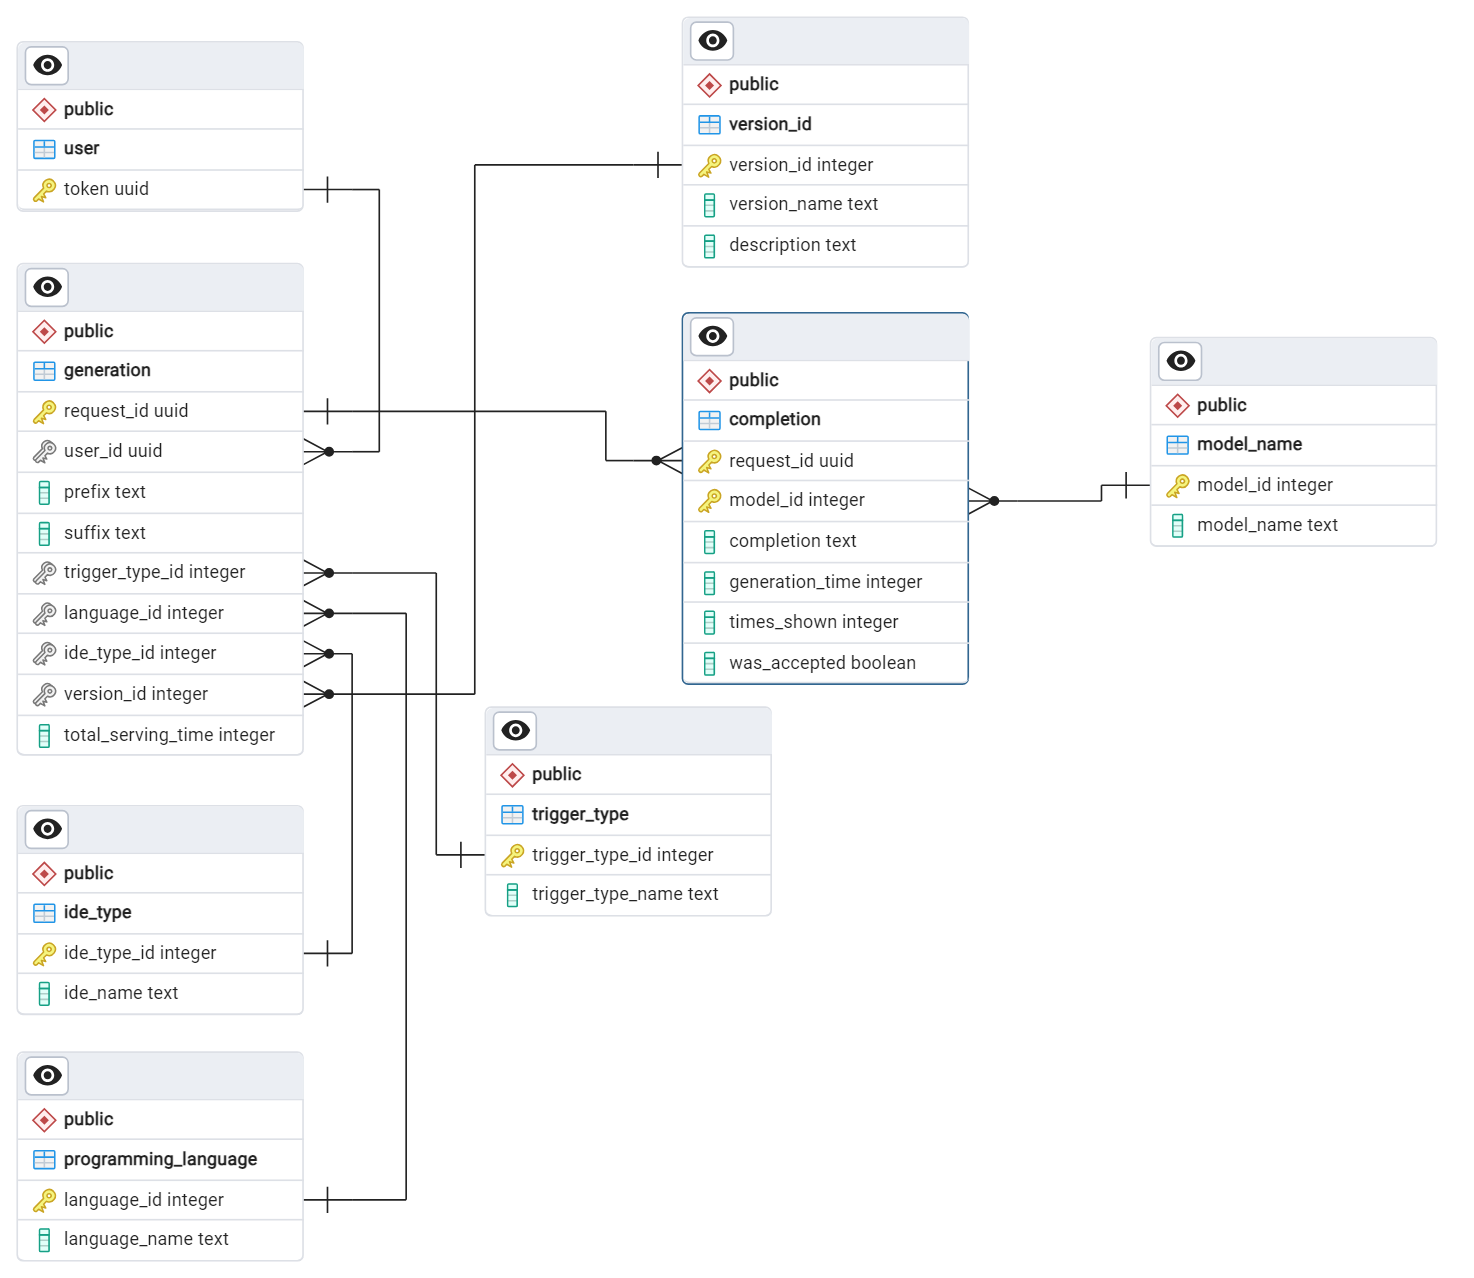
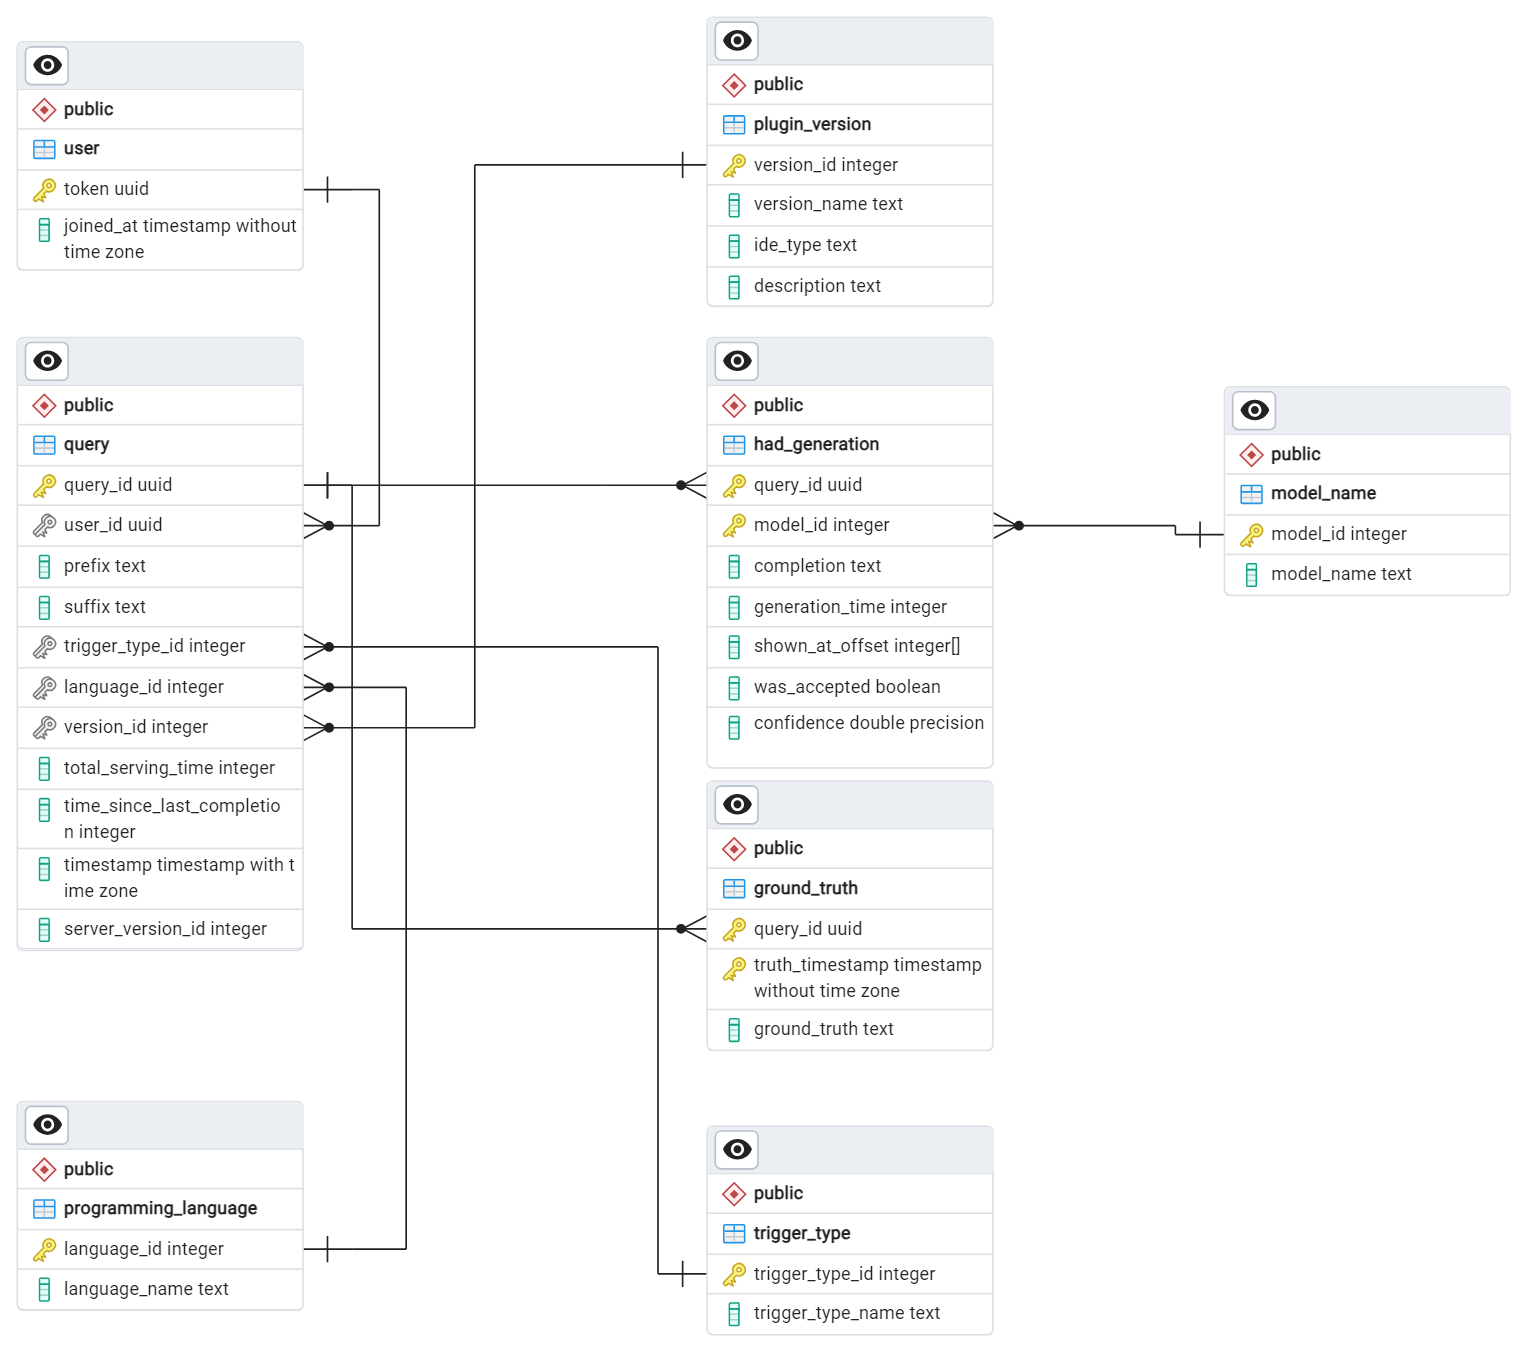
added agreed upon changes to the database, modified initialization script to include indexes and comments indicating what each part does.

diff --git a/server/database/design.md b/server/database/design.md
@@ -1,65 +1,70 @@
 ```mermaid
-classDiagram
-    direction LR
-    class User {
-      <<public>>
-      +UUID token_uuid
-    }
-    class Query {
-      <<public>>
-      +UUID query_id
-      +UUID user_id
-      +TEXT prefix_text
-      +TEXT suffix_text
-      +INTEGER trigger_type_id
-      +INTEGER language_id
-      +INTEGER ide_type_id
-      +INTEGER version_id
-      +INTEGER total_serving_time
-    }
-    class Version {
-      <<public>>
-      +INTEGER version_id
-      +TEXT version_name
-      +TEXT description
-    }
-    class Generation {
-      <<public>>
-      +UUID request_id
-      +INTEGER model_id
-      +TEXT Generation_text
-      +INTEGER generation_time
-      +INTEGER times_shown
-      +BOOLEAN was_accepted
-    }
-    class Model {
-      <<public>>
-      +INTEGER model_id
-      +TEXT model_name
-    }
-    class Trigger_Type {
-      <<public>>
-      +INTEGER trigger_type_id
-      +TEXT trigger_type_name
-    }
-    class IDE_Type {
-      <<public>>
-      +INTEGER ide_type_id
-      +TEXT ide_name
-    }
-    class Programming_Language {
-      <<public>>
-      +INTEGER language_id
-      +TEXT language_name
+erDiagram
+    USER {
+        UUID token PK
+        TIMESTAMP joined_at
     }
 
-    User --|> Query : "has"
-    Query --|> Version : "uses"
-    Query --|> Generation : "triggers"
-    Generation --|> Model : "utilizing"
-    Query --|> Trigger_Type : "was triggered by"
-    Query --|> IDE_Type : "was generated by"
-    Query --|> Programming_Language : "programs in"
+    QUERY {
+        UUID query_id PK
+        UUID user_id FK
+        TEXT prefix
+        TEXT suffix
+        INTEGER trigger_type_id FK
+        INTEGER language_id FK
+        INTEGER version_id FK
+        INTEGER total_serving_time
+        INTEGER time_since_last_completion
+        TIMESTAMP query_timestamp
+        INTEGER server_version_id
+    }
+
+    MODEL_NAME {
+        INTEGER model_id PK
+        TEXT model_name
+    }
+
+    PLUGIN_VERSION {
+        INTEGER version_id PK
+        TEXT version_name
+        TEXT ide_type
+        TEXT description
+    }
+
+    TRIGGER_TYPE {
+        INTEGER trigger_type_id PK
+        TEXT trigger_type_name
+    }
+
+    PROGRAMMING_LANGUAGE {
+        INTEGER language_id PK
+        TEXT language_name
+    }
+
+    HAD_GENERATION {
+        UUID query_id FK
+        INTEGER model_id FK
+        TEXT completion
+        INTEGER generation_time
+        INTEGER[] shown_at_offset
+        BOOLEAN was_accepted
+        DOUBLE confidence
+    }
+
+    GROUND_TRUTH {
+        UUID query_id FK
+        TIMESTAMP truth_timestamp PK
+        TEXT ground_truth
+    }
+
+    USER ||--o{ QUERY : has
+    QUERY ||--o{ HAD_GENERATION : triggers
+    QUERY ||--o{ GROUND_TRUTH : has
+    QUERY }o--|| PLUGIN_VERSION : uses
+    QUERY }o--|| TRIGGER_TYPE : was_triggered_by
+    QUERY }o--|| PROGRAMMING_LANGUAGE : programs_in
+    HAD_GENERATION }o--|| MODEL_NAME : utilizes
+
 ```
 
 ## Database Schema for CoCo
@@ -69,16 +74,18 @@ classDiagram
 ## Tables
 ### `user`
 This is the table which contains the list of all the valid identification tokens for the users.
-This table can therefore also be used to very the fact that a user is a valid user or not upon request.
+This table can therefore also be used to verify the fact that a user is a valid user or not upon a request.
 
 - **`token_uuid: UUID`** Unique identifier for the user, **Primary Key**. 
+- `joined_at: TIMESTAMP` Timestamp at which the user joined.
 
 ### `version_id`
-This table contains the list of all the versions of the plugin that are available.
+This table contains the list of all the versions of the plugin that are available bound to the `ide_type`.
 The (optional) description field can be used to provide a brief description of the version and the changes that have been made in the version.
 
-- `version_id: INTEGER` Unique identifier for the version.
-- **`version_name: TEXT`** Name of the (semantic) version, **Primary Key**. 
+- **`version_id: INTEGER`** Unique identifier for the version. **Primary Key**.
+- `version_name: TEXT` Name of the (semantic) version.
+- `ide_type: TEXT` Type of the IDE for which the version is available.
 - `description: TEXT` Description of the version, *Optional*.
 
 > [!NOTE]: does it not make more sense to merge `version_name` and `version_id` into one field? If we use semantic versioning; this should suffice as an identifier. I.e. just have a field `version_id: TEXT` containing the semantic version. 
@@ -129,7 +136,7 @@ The programming languages are used to determine the language in which the code i
 This table contains the list of all the models that are available.
 The models are used to determine the model that is used to generate the code.
 
-- **`model_id: INTEGER`** Unique identifier for the model, **Primary Key**.
+- &rarr;**`model_id: INTEGER`** Unique identifier for the model, **Primary Key**.
 - `model_name: TEXT` Name of the model.
 
 > [!NOTE] Is it necessary for `trigger_type`, `ide_type`, `programming_language`, and `model_name` to be their own tables? I'm not sure if this works with the database libraries you're using (or whether it remains 3NF), but a flatter layout can be more desirable for easier understanding. 
@@ -143,19 +150,16 @@ The models are used to determine the model that is used to generate the code.
 > One more this to keep in mind, is that with the adapters that will be implemented on top of the database the data would be returned as the pydantic types that are defined for the project, so this is simply a level of abstraction that a user or analyst would not have to deal with. Everything will be handled through the providers of the adapter in the format that is "flattened".
 
 ### `query`
-
-> [!NOTE] Rename `generation` to `query` to completely avoid ambiguity with the `completion` table. I chose not to use `request` to not overload this term often used in the code itself as well. I like the metadata/actual code separation; 
-
-> I've classified fields based on whether they are computed server/client side. We will probably extend the client-side one a lot during the studies we do, e.g. with last 5 actions, current typing speed, etc.
-
 This table contains the list of all the generations that have been requested.
 This table contains only the metadata of the generation request and not the actual code that has been generated.
 
 ###### Computed Server-Side
 
-- **`request_id: UUID`** for the generation request, **Primary Key**.
+- **`query_id: UUID`** for the generation request, **Primary Key**.
 - `total_serving_time: INTEGER` total request processing time, in milliseconds.
-- `timestamp:` **please add this field and its datatype**; it may also be useful to pre-compute the time since the last completion (in ms) per user, as this is a strong indicator on whether it is necessary to generate a completion in the first place. `time_since_last_completion` should be part of the `generation`, i.e. not stored as a mutable field under the `user`; in case we build a classifier that depends on several of the previous requests. 
+- `query_timestamp: TIMESTAMP` timestamp at which the query was made.
+- `time_since_last_completion` time since the last completion that was accepted by the user.
+
 
 ###### Computed Client-Side
 
@@ -164,8 +168,7 @@ This table contains only the metadata of the generation request and not the actu
 - `suffix_text: TEXT` after the cursor.
 - `trigger_type_id: INTEGER` &rarr; [`trigger_type`](#trigger_type) ID for the trigger type used.
 - `language_id: INTEGER` &rarr; [`programming_language`](#programming_language) ID for the programming language used.
-- `ide_type_id: INTEGER` &rarr; [`ide_type`](#ide_type) ID for the IDE type used.
-- `version_id: INTEGER` &rarr; [`version_id`](#version_id) ID for the version used.
+- `version_id: INTEGER` &rarr; [`version_id`](#version_id) ID for the version of the plugin used.
 
 ### `generation`
 
@@ -176,15 +179,20 @@ This table contains all the completions that have been generated; the actual cod
 - **`model_id: INTEGER`** &rarr; [`model_name`](#model_name) ID for the model used, **Primary Key**.
 - `completion_text: TEXT` The code that has been generated.
 - `generation_time: INTEGER` Time taken to generate the code, in milliseconds.
-
-- `confidence: FLOAT` **add: confidence of the model**; in the future we will likely also want to maintain generation kwargs like `temperature`.
+- `confidence: FLOAT` Confidence of the model in the generated code.
 
 ###### Computed Client-Side (& MUTABLE)
-> [!NOTE] you should store `times_shown` as a list of `timestamps` the completion was shown at, rather than the number of times. Also, keep in mind that this value does not exist at first. The server generates a completion, sends it to the client; the client may or may not show the completion, and may show it at different times; after which it is sent back to the server to update this field. 
 
-- `times_shown: INTEGER` Number of times the completion has been shown.
+- `shown_at: INTEGER[]` The offset at which the completion was shown to the user (in milliseconds).
 - `was_accepted: BOOLEAN` Whether the completion was accepted or not.
 
+### `ground_truth`
+This table contains the ground truth for the completions that have been generated.
+The ground truth is the code that the user was actually looking for when they requested the completion.
+
+- **`query_id: UUID`** &rarr; [`query`](#query) Unique identifier for the generation request, **Primary Key**.
+- **`truth_timestamp: TIMESTAMP`** Timestamp at which the ground truth was provided, **Primary Key**.
+- `ground_truth_text: TEXT` The code that the user was actually looking for.
 
 ## General Notes
 - The database has been designed in a way to enable modularity and scalability.
@@ -195,11 +203,10 @@ This table contains all the completions that have been generated; the actual cod
 - The database has been designed to be used with a REST API.
 
 ## design decisions
-- given that the ground truth need not be one of the completions generated, we assume that any model_id lower than 0 is the ground truth as provided by the user. This means that a value for `model_id` lower than 0 does not link to an entry in the `model_name` table but rather the user. This entry is only added to the database iff the verification of the request by the user indicates the use of another answer besides that included in the completions.
-  - **Let's not do this. When we extend `generation` with additional metadata, we may not want to extend the `ground_truth`. Also, we want to be able to store `ground_truth`s at different timestamps (e.g. after 30s up to 30 days), to see if the code changes over time ([adoption of AI correlates with code churn](https://www.gitclear.com/coding_on_copilot_data_shows_ais_downward_pressure_on_code_quality))**
 - all times which are stored as integers are stored in milliseconds. This is to ensure that the time taken to generate the code is stored in a consistent manner.
 - a cascade of deletion has been implemented based upon the foreign key constraint of `request_id` in the table `completion`. This is to ensure that when a generation request is deleted, all the completions associated with that request are also deleted. This is to ensure that the database does not contain any orphaned entries.
 - as per the design of postgreSQL the `TEXT` datatype is used to store large amounts of text. This is to ensure that the database can store the code that has been generated without any truncation. (this is synonymous with the `CLOB` datatype in Oracle and the `TEXT` datatype in MySQL)
+- indexes have been added to the foreign key columns to ensure that the database can quickly retrieve the data that is required. This is to ensure that the database can quickly retrieve the data that is required. Additionally, indexes have been added to the Primary Key columns to ensure that the database can quickly preform point-wise lookups.
 - the designs have been exclusively tested on postgreSQL and as such the syntax used in the initialization script is specific to postgreSQL. The script may need to be modified to work with other SQL databases.
 
 The initialization script for the database can be found [here](init.sql)
@@ -240,6 +247,11 @@ class File:
                                        # i.e. write a lot, lot of tests. 
   language: languageid
 ```
+-->
+
+<!--
+useful links
+([adoption of AI correlates with code churn](https://www.gitclear.com/coding_on_copilot_data_shows_ais_downward_pressure_on_code_quality))
 -->
 
 
